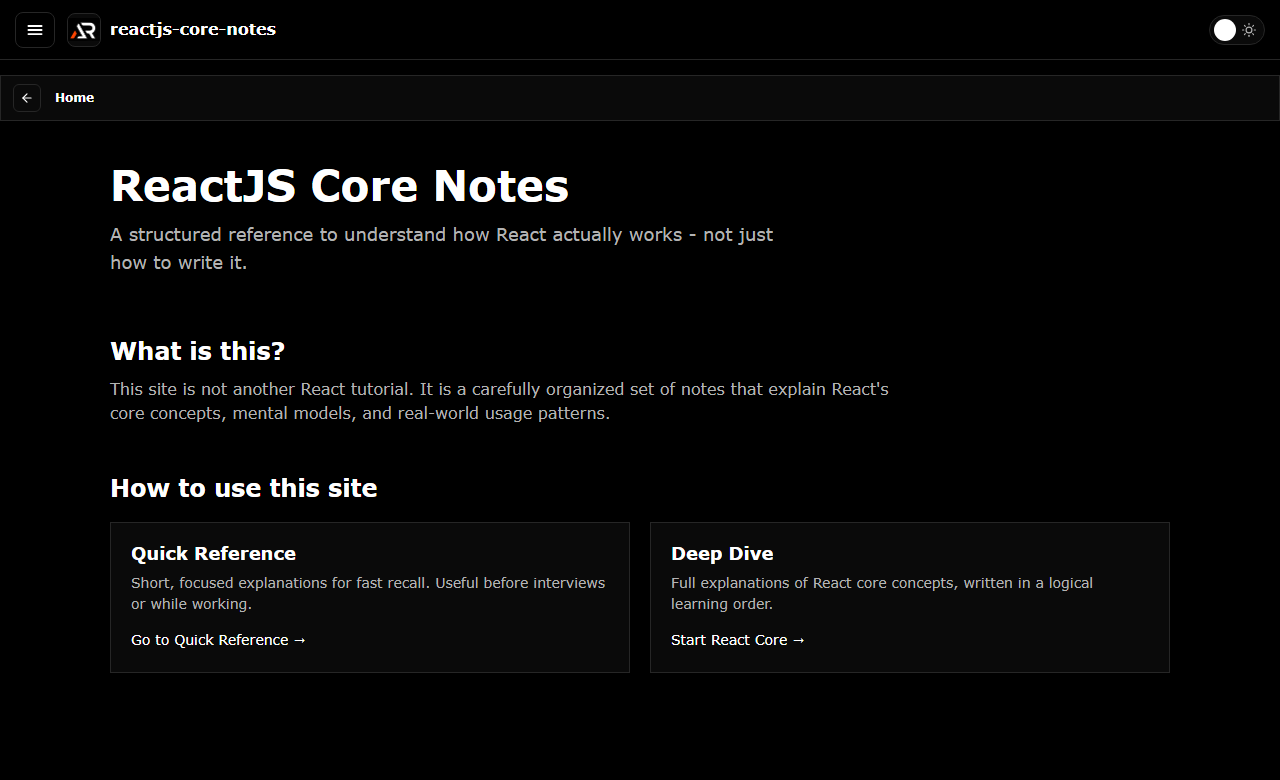
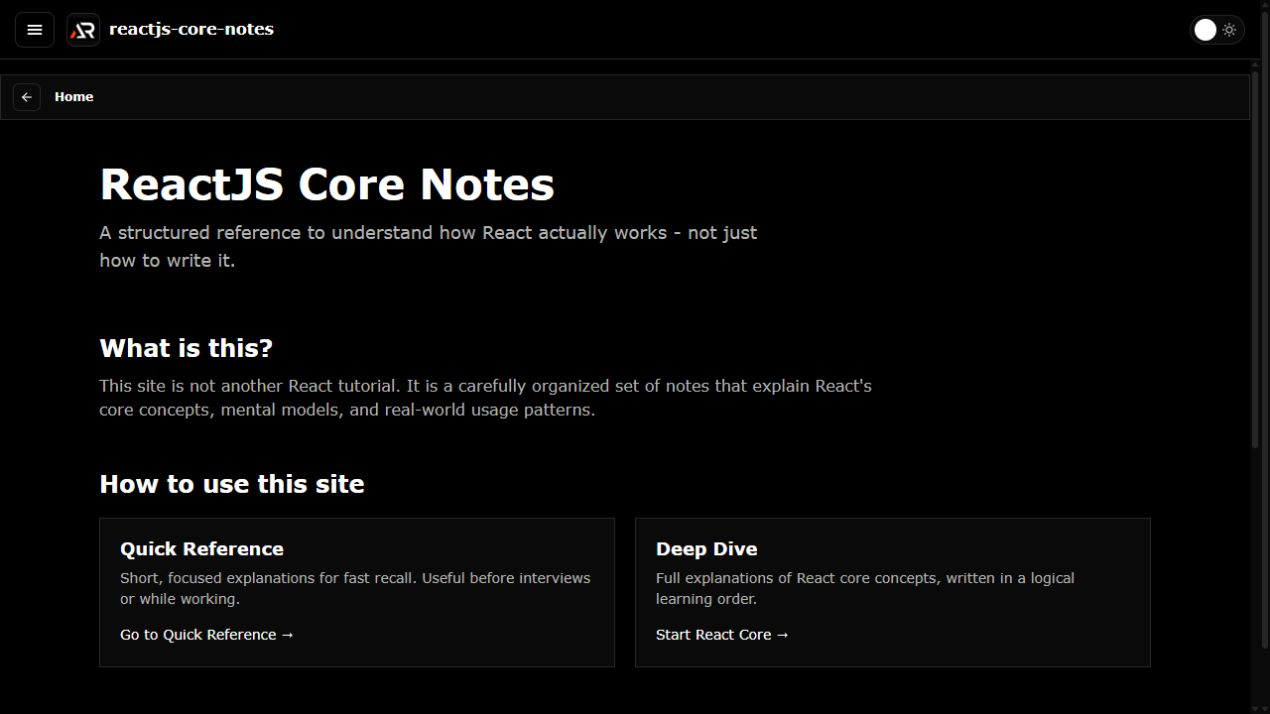
Make ReactJS core notes monochrome and refresh preview

diff --git a/index.html b/index.html
@@ -4,7 +4,7 @@
         <meta charset="UTF-8" />
         <link rel="icon" href="/favicon.ico" />
         <meta name="viewport" content="width=device-width, initial-scale=1.0" />
-        <meta name="theme-color" content="#0b0d12" />
+        <meta name="theme-color" content="#0d0d0d" />
         <meta name="description" content="Structured React core concepts, practical examples, and interview notes." />
         <meta property="og:title" content="ReactJS Core Notes" />
         <meta property="og:description" content="Structured React core concepts, practical examples, and interview notes." />
